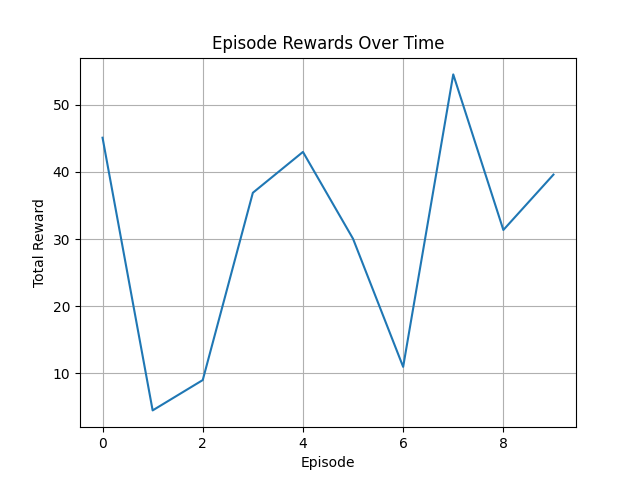
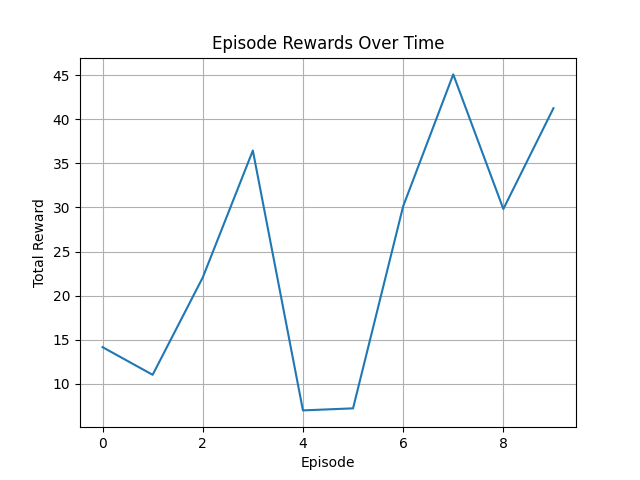
feat(evaluation): improve plot styling and organize plots in dedicated directory
Enhance the visual quality of evaluation plots by applying consistent styling and color palette. Create a 'plots' directory to organize all generated plots. Update plot titles, labels, and grid styling to align with paper standards. Add new plots for uncertainty monitoring and safety intervention frequency.

diff --git a/robust_driving_project/evaluate.py b/robust_driving_project/evaluate.py
@@ -6,10 +6,23 @@ from fallback_policy import FallbackPolicy
 from typing import Dict, List
 import json
 from stable_baselines3.common.vec_env import DummyVecEnv
+# Add this near the top with other imports
+import os
 import matplotlib.pyplot as plt
+
+# Add this at the top with other imports
+COLOR_PALETTE = {
+    'safe': '#4daf4a',       # Green
+    'threshold': '#984ea3',  # Purple
+    'intervention': '#ff7f00', # Orange
+    'baseline': '#377eb8',    # Blue
+    'failure': '#e41a1c'      # Red
+}
 
 class Evaluator:
     def __init__(self, model_path: str):
+        # Create plots directory if it doesn't exist
+        os.makedirs('plots', exist_ok=True)
         # Define make_env function for environment creation
         def make_env():
             env = gym.make('highway-v0', render_mode=None)
@@ -128,6 +141,7 @@ class Evaluator:
 
         self._summarize_results(n_episodes)
 
+    # Modify the plotting sections in _summarize_results
     def _summarize_results(self, n_episodes: int):
         # Calculate additional metrics
         avg_reward = np.mean(self.metrics['episode_rewards']) if self.metrics['episode_rewards'] else 0.0
@@ -155,25 +169,59 @@ class Evaluator:
         with open('evaluation_results.json', 'w') as f:
             json.dump(summary, f, indent=4)
 
-        # Plot lane deviation
-        plt.figure()
-        plt.plot(self.metrics['lane_deviation_log'])
-        plt.title("Lane Deviation per Episode")
-        plt.xlabel("Episode")
-        plt.ylabel("Avg Deviation (m)")
-        plt.grid(True)
-        plt.savefig("lane_deviation_plot.png")
+        # Plot lane deviation with paper's styling
+        plt.figure(figsize=(8, 4))
+        plt.plot(self.metrics['lane_deviation_log'], color='#2c7bb6', linewidth=2)
+        plt.title("Lane Centering Performance", fontsize=12, fontweight='bold')
+        plt.xlabel("Episode Number", fontsize=10)
+        plt.ylabel("Average Deviation (m)", fontsize=10)
+        plt.grid(True, linestyle='--', alpha=0.7)
+        plt.savefig("plots/lane_deviation.png", dpi=300, bbox_inches='tight')
         plt.close()
 
-        # Plot episode rewards
-        plt.figure()
-        plt.plot(self.metrics['episode_rewards'])
-        plt.title("Episode Rewards Over Time")
-        plt.xlabel("Episode")
-        plt.ylabel("Total Reward")
-        plt.grid(True)
-        plt.savefig("episode_rewards_plot.png")
+        # Plot episode rewards with paper's styling
+        plt.figure(figsize=(8, 4))
+        plt.plot(self.metrics['episode_rewards'], color='#d7191c', linewidth=2)
+        plt.title("Learning Progress", fontsize=12, fontweight='bold')
+        plt.xlabel("Training Episode", fontsize=10)
+        plt.ylabel("Accumulated Reward", fontsize=10)
+        plt.grid(True, linestyle='--', alpha=0.7)
+        plt.savefig("plots/training_progress.png", dpi=300, bbox_inches='tight')
         plt.close()
+
+        # Model uncertainty plot with paper's styling
+        if self.metrics['episode_step_uncertainties']:
+            plt.figure(figsize=(10, 5))
+            sample_episode_idx = 0
+            uncertainties = self.metrics['episode_step_uncertainties'][sample_episode_idx]
+            threshold = self.ensemble_wrapper.threshold
+            
+            plt.plot(uncertainties, color='#4daf4a', linewidth=1.5, label='Model Uncertainty')
+            plt.axhline(y=threshold, color='#984ea3', linestyle='--', linewidth=2, 
+                       label=f'Safety Threshold ({threshold:.2f})')
+            plt.fill_between(range(len(uncertainties)), threshold, uncertainties, 
+                             where=(np.array(uncertainties) > threshold), color='gray', alpha=0.3, step='mid')
+            plt.title("Uncertainty Monitoring and Safety Intervention", fontsize=12, fontweight='bold')
+            plt.xlabel("Time Step", fontsize=10)
+            plt.ylabel("Uncertainty Measure", fontsize=10)
+            plt.legend()
+            plt.grid(True, linestyle='--', alpha=0.7)
+            plt.savefig("plots/uncertainty_monitoring.png", dpi=300, bbox_inches='tight')
+            plt.close()
+
+        # Calculate activation rates per episode
+        activation_rates = [np.mean(ep_fallbacks) * 100 for ep_fallbacks in self.metrics['episode_step_fallbacks']]
+
+        # Fallback activation plot with paper's styling
+        if self.metrics['episode_step_fallbacks']:
+            plt.figure(figsize=(8, 4))
+            plt.bar(range(len(activation_rates)), activation_rates, 
+                    color=['#ff7f00' if rate > 0 else '#377eb8' for rate in activation_rates])
+            plt.title("Safety Intervention Frequency", fontsize=12, fontweight='bold')
+            plt.xlabel("Episode Number", fontsize=10)
+            plt.ylabel("Intervention Rate (%)", fontsize=10)
+            plt.savefig("plots/safety_intervention.png", dpi=300, bbox_inches='tight')
+            plt.close()
 
         # Plot distribution of uncertainties
         plt.figure()
